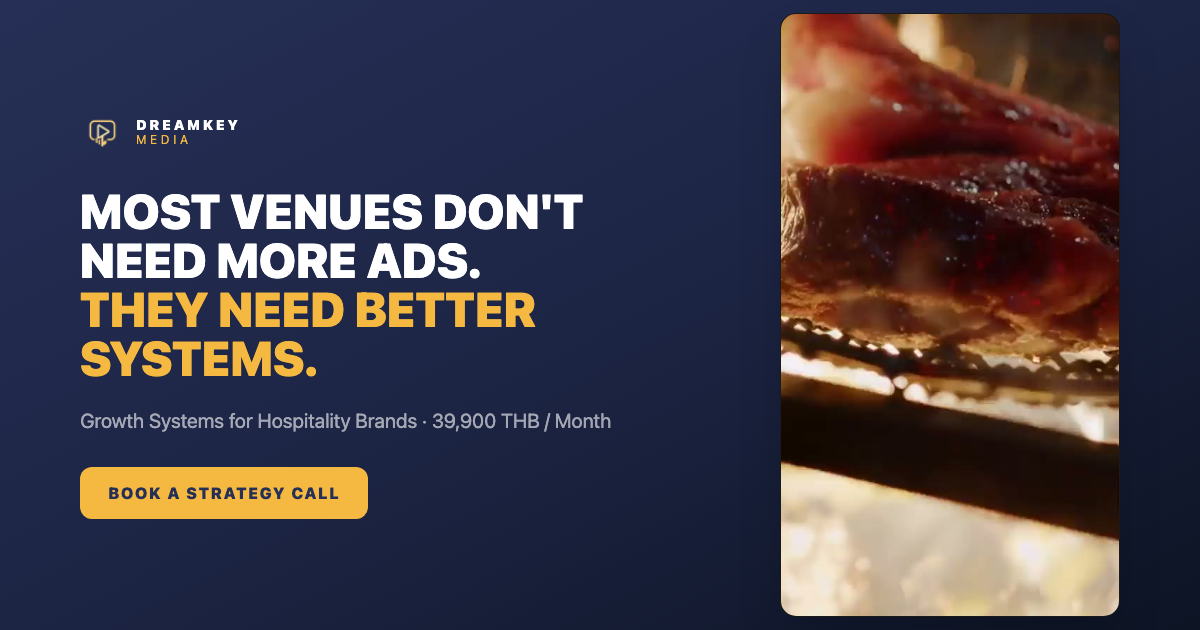
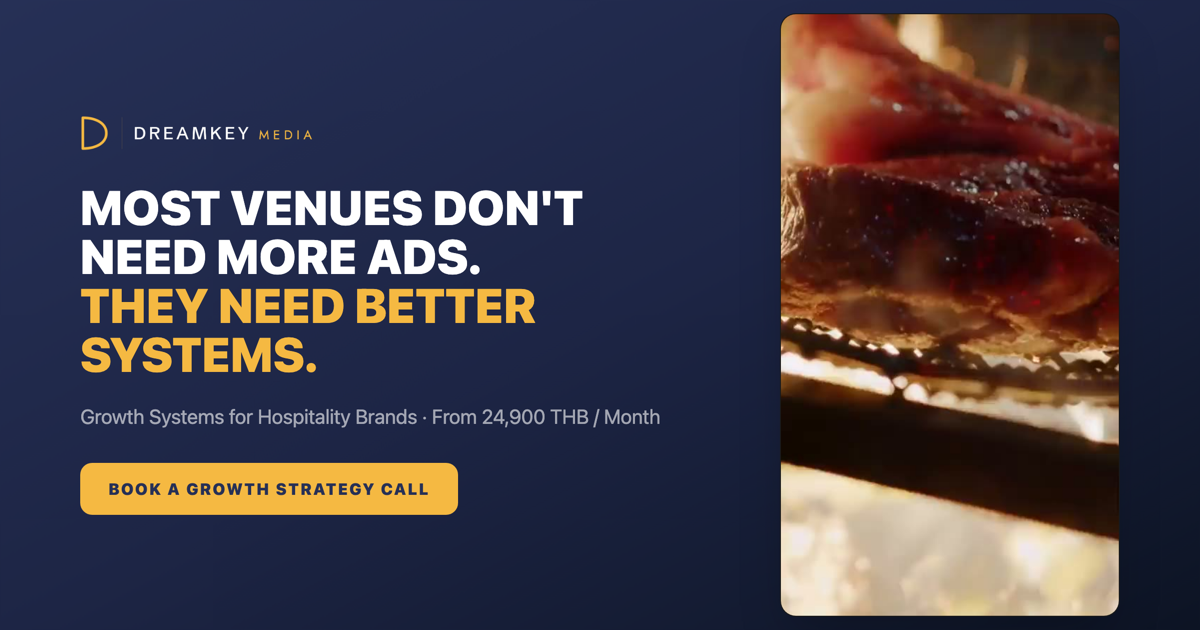
Regenerate stale WhatsApp/social link-preview thumbnail
social/og-image.png was a static render from June never updated
through the logo swap or pricing changes — still showed the old
icon-only logo, 39,900 THB price, and "Book A Strategy Call". Updated
the source template and re-rendered at 1200x630.

diff --git a/social/og-image.html b/social/og-image.html
@@ -8,21 +8,17 @@
   <div class="absolute inset-0 bg-gradient-to-br from-[#263056] via-[#1d2545] to-[#0d1424]"></div>
   <div class="relative z-10 h-full flex items-center px-20 gap-16">
     <div class="flex-1">
-      <div class="flex items-center gap-3 mb-8">
-        <img src="../images/logo.png" width="44" height="44" class="object-contain" />
-        <div>
-          <div class="font-black text-sm tracking-[0.2em] uppercase leading-none">DREAMKEY</div>
-          <div class="text-gold text-xs tracking-[0.3em] uppercase">MEDIA</div>
-        </div>
+      <div class="mb-8">
+        <img src="../images/dreamkey-logo.png" class="h-9 w-auto object-contain" />
       </div>
       <h1 class="font-black text-5xl uppercase leading-[1.02] mb-6">
         <span class="block">MOST VENUES DON'T</span>
         <span class="block">NEED MORE ADS.</span>
         <span class="block text-gold">THEY NEED BETTER SYSTEMS.</span>
       </h1>
-      <p class="text-white/60 text-xl mb-8">Growth Systems for Hospitality Brands · 39,900 THB / Month</p>
+      <p class="text-white/60 text-xl mb-8">Growth Systems for Hospitality Brands · From 24,900 THB / Month</p>
       <div class="inline-flex items-center gap-2 bg-gold text-primary font-black uppercase text-base tracking-widest px-7 py-3.5 rounded-xl">
-        Book A Strategy Call
+        Book a Growth Strategy Call
       </div>
     </div>
     <div class="w-[340px] aspect-[9/16] rounded-2xl overflow-hidden border border-white/10 shadow-2xl flex-shrink-0 bg-black">
